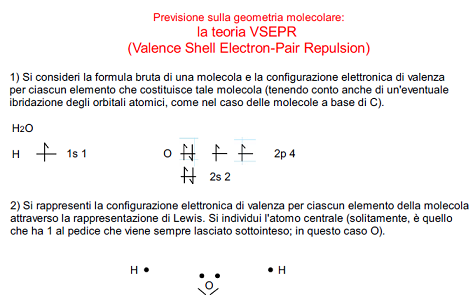
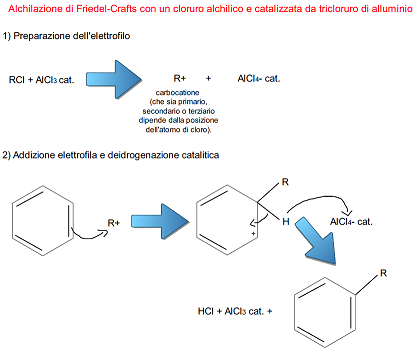
finish SEO and finish all

diff --git a/home/index.html b/home/index.html
@@ -6,7 +6,12 @@
         <link rel="icon" type="image/x-icon" href="../assets/img/favicon42x42.ico"/>
         <metadata charset="UTF-8"/>
         <meta name="description" content="Sono William Mariella, insegnante-tutor in chimica presso GoStudent
-        e studente in UX/UI design presso start2impact."/>
+        e studente in UX/UI design presso start2impact. Il lavoro ideale per me è quello in cui possa far 
+        fruttare tutte le abilità che ho acquisito durante gli anni della mia lunga formazione interdisciplinare.
+        Prediligerei, dunque, una posizione lavorativa nel campo della cultura, dove possa dedicarmi a
+        diverse mansioni: dalle attività puramente di UX/UI designer ad attività di scrittura creativa,
+        divulgazione ed informazione. Pertanto, mi vedrei bene in una redazione di una testata giornalistica
+        o di una rivista periodica, in un istituto di cultura oppure in un museo."/>
         <meta name="viewport" content="width=device-width, initial-scale=1.0"/>
         <script type="text/javascript" src="https://cdn.jsdelivr.net/npm/@emailjs/browser@3/dist/email.min.js"></script>
         <script type="text/javascript">
@@ -58,10 +63,17 @@
                 <p>Salve internauta! Sono William Mariella, insegnante-tutor in chimica presso 
                 <a href="https://www.gostudent.org/it-it/home/">GoStudent</a> e studente in UX/UI design 
                 presso <a href="https://www.start2impact.it">start2impact</a>.</p>
-                <p>Ho scelto UX/UI design perché è una professione in cui posso finalmente mettere in gioco
-                tutta la mia creatività. Inoltre, raccogliere questa opportunità di carriera è un'occasione
-                per dare una definitiva svolta alla mia vita.</p>
-                <p></p>
+                <p>Ho scelto <strong>UX/UI design</strong> perché è una professione in cui posso finalmente 
+                mettere in gioco tutta la mia creatività. Inoltre, raccogliere questa opportunità di carriera 
+                è un'occasione per dare una definitiva svolta alla mia vita.</p>
+                <br/>
+                <p class="synopsis">Il lavoro ideale per me è quello in cui possa far fruttare tutte le 
+                abilità che ho acquisito durante gli anni della mia lunga formazione interdisciplinare.
+                Prediligerei, dunque, una posizione lavorativa nel campo della cultura, dove possa dedicarmi a
+                diverse mansioni: dalle attività puramente di UX/UI designer ad attività di scrittura creativa,
+                divulgazione ed informazione. Pertanto, mi vedrei bene in una redazione di una testata 
+                giornalistica o di una rivista periodica, in un istituto di cultura oppure in un museo.</p>
+                <br/>
                 <p>Questo sito è stato inizialmente ideato nel contesto del progetto di programmazione HTML/CSS 
                 all'interno del corso in UX/UI design di start2impact. Pertanto, questo stesso sito è da 
                 intendersi come parte integrante del mio portfolio di progetti.</p>
@@ -118,7 +130,7 @@
                         <img src="../assets/img/Logo_GitHub.png" alt="Github logo by pngwing">
                     </a>
                     <a href="https://www.instagram.com/will_mariella/">
-                        <img src="../assets/img/Logo_Instagram.png" alt="Instagram logo by Icons8"/>
+                        <img src="../assets/img/Logo_Instagram.png" alt="Instagram logo by pngwing"/>
                     </a>
                 </div>
             </div>

diff --git a/assets/styles/styles.scss b/assets/styles/styles.scss
@@ -1,4 +1,4 @@
-@import url('https://fonts.googleapis.com/css2?family=Caveat:wght@700&family=Noto+Sans:ital,wght@0,400;0,700;0,800;1,400;1,700;1,800&display=swap');
+@import url('https://fonts.googleapis.com/css2?family=Caveat&family=Poppins:ital,wght@0,400;0,700;1,400;1,700&display=swap');
 @import "partial_tablet_style.css";
 @import "partial_laptop_style.css";
 $nav-color: #73878a;
@@ -12,7 +12,7 @@ $footer-color: #2c1b2e;
 }
 body {
     background-color: $coloured-light-grey-1;
-    font-family: "Noto Sans", sans-serif;
+    font-family: "Poppins",
 }
 nav {
     background-color: $nav-color;
@@ -20,7 +20,7 @@ nav {
     align-items: center;
     position: fixed;
     justify-content: space-between;
-    font-size: calc(13px + 0.1vw);
+    font-size: calc(12px + 0.2vw);
     top: 0;
     width: 100%;
     height: 50px;
@@ -79,6 +79,13 @@ section p {
     margin: 20px;
     line-height: 2em;
 }
+.synopsis {
+    font-style: italic;
+    color: $nav-color;
+    border-bottom: 1px solid $nav-color;
+    border-right: 1px solid $nav-color;
+    padding-right: 3%;
+}
 .form-header {
     background-color: $form-color;
     text-align: center;
@@ -104,15 +111,14 @@ section p {
 .form-row {
     display: flex;
     flex-wrap: wrap;
-    flex-direction: row;
+    flex-direction: row-reverse;
     align-items: flex-start;
     justify-content: center;
     font-size: calc(14px + 0.2vw);
     label {
-        text-align: right;
         width: 200px;
         margin-bottom: 10px;
-        margin-right: 18px;
+        margin-left: 20px;
     }
 }
 .form-row input,
@@ -182,17 +188,15 @@ footer {
         display: flex;
         flex-flow: wrap row;
         justify-content: space-between;
+        align-items: center;
     }
     .social p {
+        align-self: flex-start;
         margin-right: auto;
     }
-    .social img {
-        width: 30px;
-        height: 30px;
+    .social a img {
         margin-bottom: 10px;
-        &:first-of-type {
-            margin-right: 25px;
-        }
+        margin-right: 25px;
     }
 }
 .y-scroller {
@@ -206,6 +210,7 @@ footer {
     scroll-snap-stop: always;
     h2 {
         text-align: center;
+        font-size: calc(19px + 0.3vw);
         padding: 70px 20px 30px 20px;
     }
 }
@@ -216,7 +221,7 @@ footer {
     figcaption {
         font-style: italic;
         text-align: left;
-        font-size: calc(11px + 0.2vw);
+        font-size: calc(12px + 0.05vw);
         padding: 10px 15px 5px 15px;
     }
 }
@@ -297,23 +302,23 @@ video {
     display: block;
     width: max-content;
     margin: 0 auto;
-    font-family: "Caveat", cursive;
+    font-family: "Caveat";
     font-weight: bold;
     p {
         margin-bottom: -25px;
-        font-size: calc(16px + 0.1vw);
+        font-size: 17px;
     }
     p:last-of-type {
         font-family: "Nunito Sans", sans-serif;
         font-weight: normal;
-        font-size: calc(10px + 0.1vw);
+        font-size: 12px;
         margin: 30px 22px;
     }
 }   
 .merch-buttons {
     display: flex;
     justify-content: space-evenly;
-    margin-bottom: 30px;
+    margin-bottom: 25px;
     button {
         cursor: pointer;
         padding: 5px 15px;

diff --git a/assets/styles/styles.css b/assets/styles/styles.css
@@ -1,4 +1,4 @@
-@import url("https://fonts.googleapis.com/css2?family=Caveat:wght@700&family=Noto+Sans:ital,wght@0,400;0,700;0,800;1,400;1,700;1,800&display=swap");
+@import url("https://fonts.googleapis.com/css2?family=Caveat&family=Poppins:ital,wght@0,400;0,700;1,400;1,700&display=swap");
 @import "partial_tablet_style.css";
 @import "partial_laptop_style.css";
 * {
@@ -9,7 +9,7 @@
 
 body {
   background-color: #f3dff5;
-  font-family: "Noto Sans", sans-serif;
+  font-family: "Poppins";
 }
 
 nav {
@@ -18,7 +18,7 @@ nav {
   align-items: center;
   position: fixed;
   justify-content: space-between;
-  font-size: calc(13px + 0.1vw);
+  font-size: calc(12px + 0.2vw);
   top: 0;
   width: 100%;
   height: 50px;
@@ -82,6 +82,14 @@ section p {
   line-height: 2em;
 }
 
+.synopsis {
+  font-style: italic;
+  color: #73878a;
+  border-bottom: 1px solid #73878a;
+  border-right: 1px solid #73878a;
+  padding-right: 3%;
+}
+
 .form-header {
   background-color: #ecccef;
   text-align: center;
@@ -109,16 +117,15 @@ section p {
 .form-row {
   display: flex;
   flex-wrap: wrap;
-  flex-direction: row;
+  flex-direction: row-reverse;
   align-items: flex-start;
   justify-content: center;
   font-size: calc(14px + 0.2vw);
 }
 .form-row label {
-  text-align: right;
   width: 200px;
   margin-bottom: 10px;
-  margin-right: 18px;
+  margin-left: 20px;
 }
 
 .form-row input,
@@ -197,16 +204,14 @@ footer .social {
   display: flex;
   flex-flow: wrap row;
   justify-content: space-between;
+  align-items: center;
 }
 footer .social p {
+  align-self: flex-start;
   margin-right: auto;
 }
-footer .social img {
-  width: 30px;
-  height: 30px;
+footer .social a img {
   margin-bottom: 10px;
-}
-footer .social img:first-of-type {
   margin-right: 25px;
 }
 
@@ -223,6 +228,7 @@ footer .social img:first-of-type {
 }
 .bio h2 {
   text-align: center;
+  font-size: calc(19px + 0.3vw);
   padding: 70px 20px 30px 20px;
 }
 
@@ -234,7 +240,7 @@ footer .social img:first-of-type {
 .bio figure figcaption {
   font-style: italic;
   text-align: left;
-  font-size: calc(11px + 0.2vw);
+  font-size: calc(12px + 0.05vw);
   padding: 10px 15px 5px 15px;
 }
 
@@ -324,24 +330,24 @@ video {
   width: -moz-max-content;
   width: max-content;
   margin: 0 auto;
-  font-family: "Caveat", cursive;
+  font-family: "Caveat";
   font-weight: bold;
 }
 .lyrics p {
   margin-bottom: -25px;
-  font-size: calc(16px + 0.1vw);
+  font-size: 17px;
 }
 .lyrics p:last-of-type {
   font-family: "Nunito Sans", sans-serif;
   font-weight: normal;
-  font-size: calc(10px + 0.1vw);
+  font-size: 12px;
   margin: 30px 22px;
 }
 
 .merch-buttons {
   display: flex;
   justify-content: space-evenly;
-  margin-bottom: 30px;
+  margin-bottom: 25px;
 }
 .merch-buttons button {
   cursor: pointer;

diff --git a/bio/index.html b/bio/index.html
@@ -208,13 +208,13 @@
             <section class="bio">
                 <h2>Insegnamento da remoto presso GoStudent</h2>
                 <figure>
-                    <img src="../assets/img/ImgBio7Medium.png" srcset="../assets/img/ImgBio7Large.png 300w, 
-                    ../assets/img/ImgBio7Medium.png 270w" sizes="(max-width:959px) 270px, (min-width:960px) 300px"
-                    alt="Una slide da me preparata sulla geometria molecolare"/>
-                    <figcaption>Una slide da me preparata sulla geometria molecolare.</figcaption>
+                    <img src="../assets/img/ImgBio7Large.png" srcset="../assets/img/ImgBio7Large.png 420w, 
+                    ../assets/img/ImgBio7Medium.png 340w" sizes="(min-width:400px) and (max-width:959px) 340px, 
+                    (min-width:960px) 420px" alt="Una slide da me preparata sull'alchilazione di Friedel-Crafts"/>
+                    <figcaption>Una slide da me preparata sull'alchilazione di Friedel-Crafts.</figcaption>
                 </figure>
                 <div class="content">
-                    <p>Terminato l'incarico, vengo a conoscenza di <a href="https://www.gostudent.org/it-it/home/">
+                    <p>Terminato l'incarico di supplenza, vengo a conoscenza di <a href="https://www.gostudent.org/it-it/home/">
                     GoStudent</a> attraverso annunci su Instagram. Decido, dunque, di candidarmi come 
                     insegnante-tutor in chimica. Dopo aver svolto un test che dimostra le mie conoscenze 
                     teoriche sulla chimica e aver prodotto un video di presentazione, <strong>vengo assunto nel 
@@ -256,7 +256,7 @@
                         <img src="../assets/img/Logo_GitHub.png" alt="Github logo by pngwing">
                     </a>
                     <a href="https://www.instagram.com/will_mariella/">
-                        <img src="../assets/img/Logo_Instagram.png" alt="Instagram logo by Icons8"/>
+                        <img src="../assets/img/Logo_Instagram.png" alt="Instagram logo by pngwing"/>
                     </a>
                 </div>
             </div>

diff --git a/portfolio/index.html b/portfolio/index.html
@@ -134,7 +134,7 @@
                         <img src="../assets/img/Logo_GitHub.png" alt="Github logo by pngwing">
                     </a>
                     <a href="https://www.instagram.com/will_mariella/">
-                        <img src="../assets/img/Logo_Instagram.png" alt="Instagram logo by Icons8"/>
+                        <img src="../assets/img/Logo_Instagram.png" alt="Instagram logo by pngwing"/>
                     </a>
                 </div>
             </div>

diff --git a/libri/index.html b/libri/index.html
@@ -80,7 +80,7 @@
                         <img src="../assets/img/Logo_GitHub.png" alt="Github logo by pngwing">
                     </a>
                     <a href="https://www.instagram.com/will_mariella/">
-                        <img src="../assets/img/Logo_Instagram.png" alt="Instagram logo by Icons8"/>
+                        <img src="../assets/img/Logo_Instagram.png" alt="Instagram logo by pngwing"/>
                     </a>
                 </div>
             </div>

diff --git a/assets/styles/partial_tablet_style.scss b/assets/styles/partial_tablet_style.scss
@@ -9,7 +9,7 @@
     .page-model-2,
     .footer-content {
         display: block;
-        width: 68vh;
+        width: 60vh;
         margin: 0 auto;
     }
     .bio figure img {

diff --git a/assets/styles/partial_tablet_style.css b/assets/styles/partial_tablet_style.css
@@ -9,7 +9,7 @@
   .page-model-2,
   .footer-content {
     display: block;
-    width: 68vh;
+    width: 60vh;
     margin: 0 auto;
   }
   .bio figure img {
